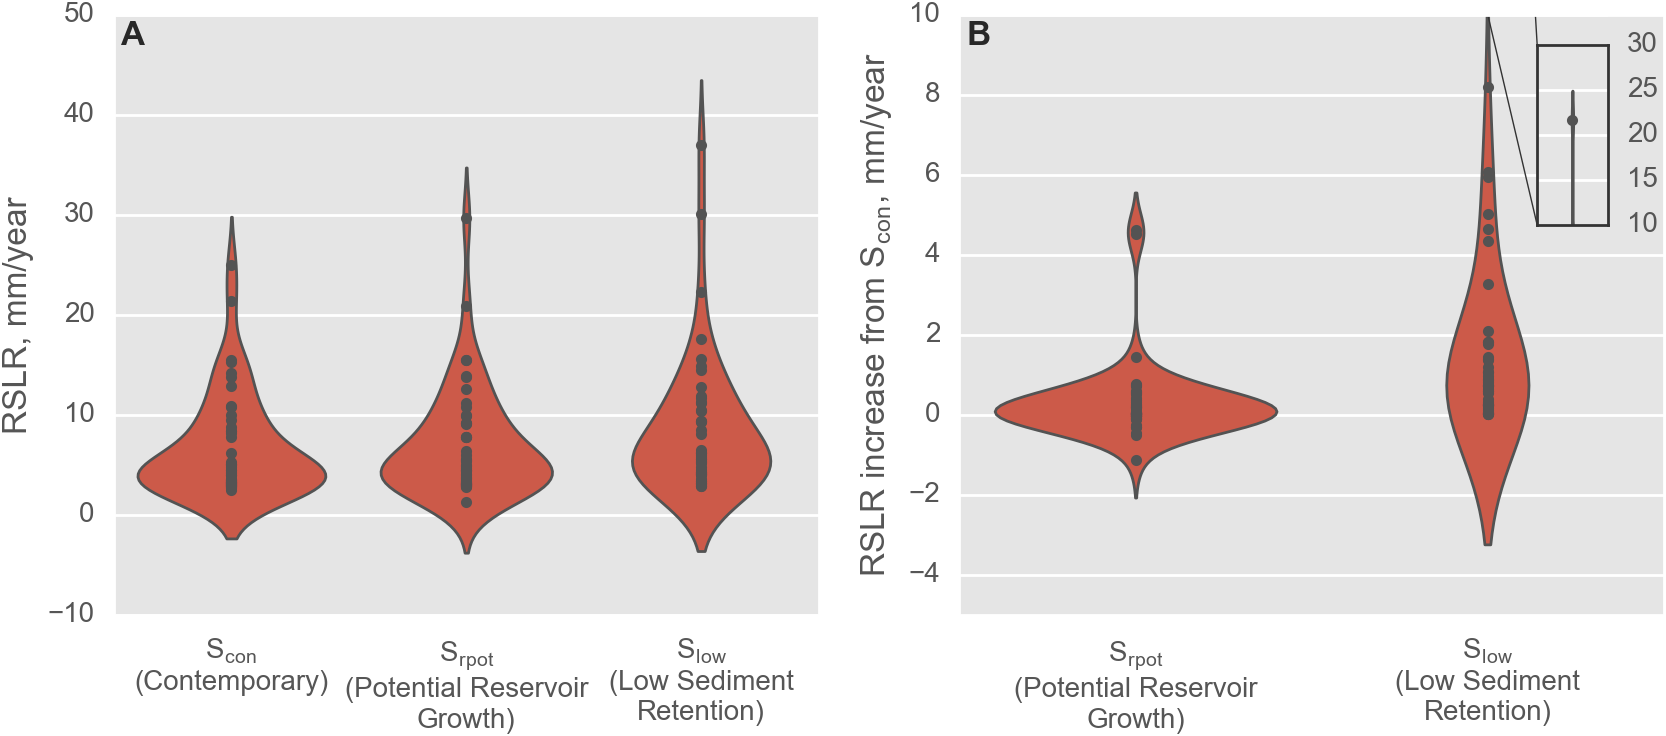
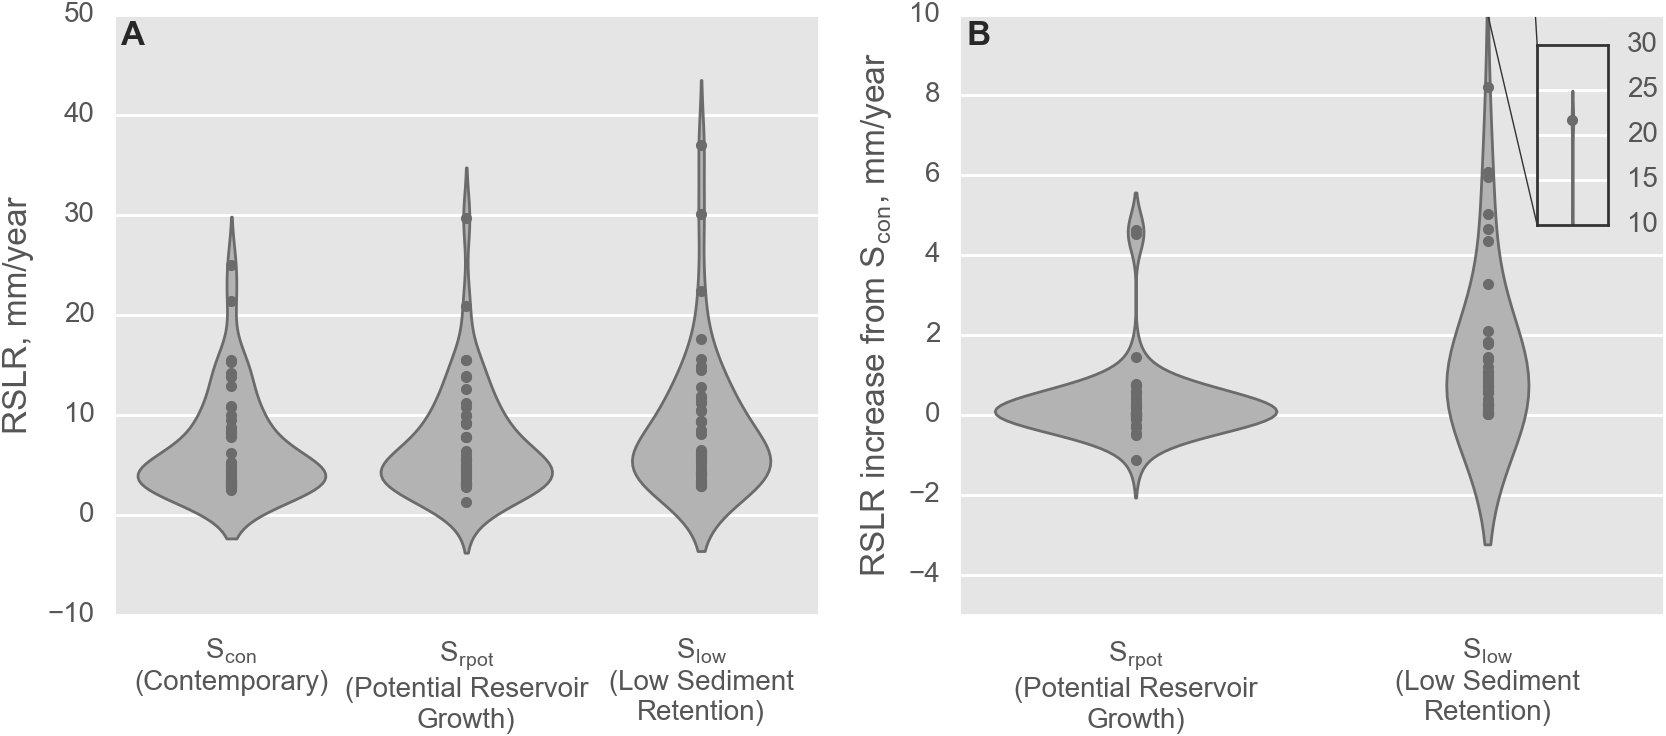
change colors on rslr_dist plot

diff --git a/analysis/process_analysis.py b/analysis/process_analysis.py
@@ -232,7 +232,8 @@ def rslr_distribution_plot(env, source, target):
                               names[2]: rslr_lowret - rslr_contemp},
                              columns=names[1:])
 
-    color = next(iter(mpl.rcParams['axes.prop_cycle']))['color']
+    # color = next(iter(mpl.rcParams['axes.prop_cycle']))['color']
+    color = '.7'
 
     sns.violinplot(data=r, inner='points', color=color, linewidth=1, ax=ax[0])
     ax[0].set_ylabel('RSLR, mm/year')
